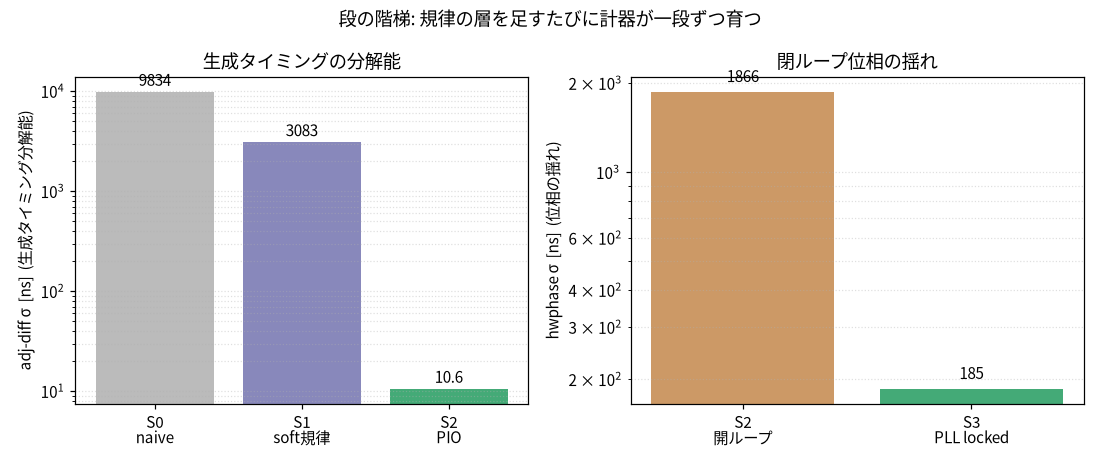
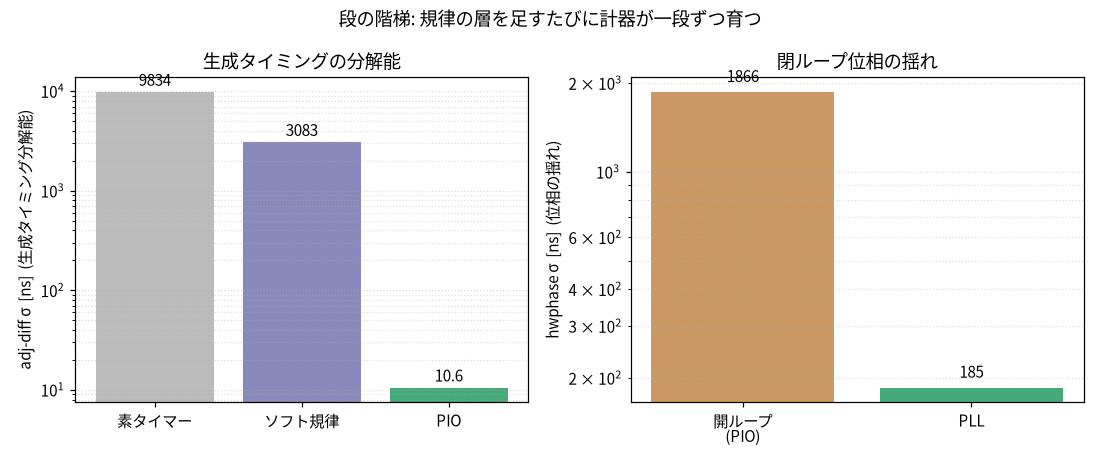
docs(precision): 段/S記号を全廃し各改良ステップを本文で展開
「段」「S0-S5」を本文・見出し・表・mermaid から一掃し、各構成を中身の言葉で呼ぶ
(素タイマー/ソフト規律/PIO/PLL/recal+補正/温度FF、PLL のみ、production、温度FF だけ切った構成)。
改良ステップの要約表をやめ、各ステップを本文の段落として書き下す (何を足し/どの誤差が消え/
数値がどう動いたか)。計測比較の表 (before/after・boot・on/off) は残す。fig1/fig2 のラベルも
素の言葉へ。執筆は smart-friend、別 agent の制約レビュー (段/S記号ゼロ・各ステップ本文化・
数値/図保全) で PASS。

Claude-Session: https://claude.ai/code/session_01QA3SZ4k1hmnnVeG51UZWBZ

diff --git a/docs/report/precision.md b/docs/report/precision.md
@@ -1,180 +1,173 @@
 # pico-gnss GPSDO 精度レポート
 
-RP2040 と民生 GNSS 受信機で GPSDO を作った。GPSDO は GPS disciplined oscillator の略で、GPS から来る正確な秒パルスに自分のクロック出力を合わせ続ける装置だ。ここで作ったものは、GNSS 受信機の 1PPS、つまり 1 秒に 1 回出る時刻基準のパルスを見ながら、RP2040 側の出力 1PPS をそこへ寄せていく。
+RP2040 と民生 GNSS 受信機で GPSDO を作った。GPSDO は GPS disciplined oscillator の略で、GPS の時刻に自分の出力を合わせ続けるクロック装置のこと。ここで作ったものは、GNSS 受信機が 1 秒に 1 回出す 1PPS を基準にして、RP2040 側から出す 1PPS をそこへ寄せていく。
 
-使っている部品は安い。RP2040 の内蔵タイマーと PIO、普通の水晶、民生 GNSS 受信機。最初から高級な基準発振器が載っているわけではない。だから最初の関心は単純で、この構成で作った 1PPS は GPS の秒境界にどこまで合うのか、どこから先が測り方の限界で、どこから先が制御の限界なのか、だった。
+使っているのは安い部品だ。RP2040、普通の水晶、民生 GNSS 受信機。高級な OCXO やルビジウム発振器を積んだ話ではない。だから見たいのは、この安い構成で GPS の秒境界にどこまで近づけるのか、どこまでが作り込みで改善できる誤差で、どこからが測定や制御の限界なのか、というところだった。
 
-外部の独立した 1PPS 基準、たとえば TIC、Rb、2 台目の受信機は使っていない。なので真の UTC に対する絶対精度は測れていない。ここで言えるのは、受信機 1PPS に対して出力がどれだけ揃ったか、firmware の内部観測とオシロの実測がどこまで一致したか、そして外乱を与えたときにどの誤差がどの機構から出たか、という範囲になる。
+ただし、この測定には外部の独立した 1PPS 基準がない。TIC も、Rb も、2 台目の受信機も使っていない。なので真の UTC に対する絶対精度を測った話ではない。ここで言えるのは、同じ GNSS 受信機の 1PPS に対して出力がどれだけ揃ったか、firmware 内部の観測とオシロの実測がどこまで合ったか、そして温度などの外乱で何が起きたか、という範囲になる。
 
-規律の信号は次のように流れる。GPS 受信機の 1PPS を PIO で捕まえ、その時刻から水晶の周波数を推定し、位相制御ループで出力周期を少しずつ操舵する。出力 1PPS は loopback で戻して内部でも位相を見ている。この内部観測を hwphase と呼ぶ。
+全体の信号の流れはこうなっている。GPS 受信機の 1PPS を PIO で捕まえ、その timestamp から水晶の周波数を推定する。位相制御ループはその推定を使って出力 1PPS の周期を少しずつ操舵する。出力は loopback でもう一度内部に戻して見ていて、この内部位相観測をここでは hwphase と呼ぶ。
 
 ```mermaid
 flowchart LR
   GPS["GPS受信機 1PPS"] -->|"PIO 16ns 捕捉"| CAP["エッジ timestamp"]
-  CAP --> DC["DisciplinedClock<br/>水晶ppb推定 + holdover"]
-  CAP --> PT["PpsTracker<br/>エッジ分類"]
-  DC --> PLL["PhaseLockLoop<br/>PID + Smith予測子"]
+  CAP --> DC["水晶周波数の推定<br/>holdover"]
+  CAP --> PT["エッジ分類"]
+  DC --> PLL["位相制御ループ<br/>PID + Smith予測"]
   PT --> PLL
   PLL -->|"周期を操舵"| OUT["出力 1PPS"]
-  OUT -.->|"loopback (hwphase)"| CAP
-  RECAL["recal + ABS_OFFSET"] -->|"絶対オフセット補正"| PLL
+  OUT -.->|"loopback: hwphase"| CAP
+  RECAL["recal + 絶対オフセット補正"] -->|"固定ずれを補正"| PLL
 ```
 
-## 段を足していく
-
-精度は一気に出たわけではなく、規律の層を 1 つずつ足して測った。firmware では `PRECISION_STAGE` という 0 から 5 の段で切り替えられる。最初は素のタイマーで PPS を作るだけ。そこへソフト周波数規律、PIO によるハード捕捉と生成、PLL、オシロ照合にもとづく補正、温度フィードフォワードを順に足した。
+精度は一発で出たわけではない。素のタイマーで出力を作るところから始めて、ソフトで周波数を規律し、PIO でエッジ捕捉と生成をハード化し、PLL で位相を閉じ、recal とオフセット補正でピン上の固定ずれを詰め、最後に温度フィードフォワードを足した。firmware には `PRECISION_STAGE` という切替ノブがあるが、ここでは番号ではなく中身で追っていく。
 
 ```mermaid
 flowchart LR
-  S0["S0 naive<br/>素タイマー"] --> S1["S1 soft規律<br/>+ dither"]
-  S1 --> S2["S2 PIO<br/>開ループFF"] --> S3["S3 PLL<br/>閉ループ"]
-  S3 --> S4["S4 recal<br/>+ ABS_OFFSET<br/>オシロ照合"] --> S5["S5 temp-FF<br/>production"]
+  A["素タイマー"] --> B["ソフト規律"]
+  B --> C["PIO"]
+  C --> D["PLL"]
+  D --> E["recal + 補正"]
+  E --> F["温度FF"]
 ```
 
-S0 から S3 までは、出力を作る足場を固める段階だ。ここでは主に firmware ログを見る。adj-diff は隣り合う位相差の変化量、interval は出力 1PPS の周期を表す。S2 と S3 は引き込み中を混ぜたくないので、warmup を切った定常側で見ている。
+![生成タイミングと閉ループ位相のばらつきが、改良ごとに縮んでいく](precision-figs/fig1-ladder.png)
 
-| 段 | 足した層 | 潰した誤差 | 代表指標 | 受信 |
-|---|---|---|---|---|
-| **S0** naive | 素のタイマーで PPS 生成 | 基準点 | adj-diff σ 9834 ns、hwphase slope −3223 ns/s | sats 16.2、HDOP 0.67 |
-| **S1** soft 規律 + dither | ソフト周波数規律と一次 sigma-delta dither | 周波数ドリフト | 定常、窓>120s で slope +17 ns/s、瞬時 adj-diff σ 3083 ns | sats 15.6、HDOP 0.69 |
-| **S2** PIO 開ループ FF | PIO で 1PPS をハード捕捉と生成、周波数 FF | ソフトタイミングの µs ジッタ | interval σ 7.3 ns、adj-diff σ 10.6 ns、span 32 ns | sats 15.1、HDOP 0.71 |
-| **S3** PLL 閉ループ | type-II 位相 servo、PID と Smith | 開ループの位相ドリフト | 獲得率 84.3%、locked で hwphase σ 185 ns、30s 窓 62 ns | sats 16.0、HDOP 0.69 |
+最初の素タイマーだけの状態では、RP2040 のタイマーで 1PPS を作るだけだった。GPS に合わせ込む仕組みはないので、水晶の素の周波数ずれがそのまま位相の流れとして出る。hwphase は −3223 ns/s で流れ、隣り合う位相差の 77% が負方向だった。adj-diff、つまり隣接する位相差の変化量の σ は 9834 ns。boot ごとにも 4〜10 µs くらい振れていた。これは GPSDO というより、まず比較対象になる「何もしていないクロック」の姿だ。
 
-![段の階梯: 生成タイミングと閉ループ位相の σ が段ごとに縮む](precision-figs/fig1-ladder.png)
+次に、ソフトで周波数を規律した。GPS 1PPS を見ながら平均周波数を寄せ、さらに一次 sigma-delta dither で整数 tick の制約をならす。これで定常状態、120 秒を超える窓では slope が +17 ns/s まで落ちた。素の状態では数千 ns/s で流れていたので、平均周波数のずれは大きく減っている。ただし瞬時の adj-diff σ は 3083 ns あり、まだ µs オーダのジッタが残った。平均周波数は寄せられても、ソフトウェアで PPS を出す瞬間の揺れは消えない。
 
-S0 は何も規律していない。hwphase は −3223 ns/s で流れ、隣接ステップの 77% が負になる。水晶の素の周波数オフセットが、そのまま位相ドリフトとして見えている。adj-diff σ は µs オーダで、boot ごとにも 4〜10 µs ほど振れる。
+dither はログ上でも直接見える。`dith_ticks` は 999997 から 1000004 tick に散っていて、平均は 1000001.75 tick になっていた。整数周期しか出せないハードでも、長い目で見ると非整数の平均周期を作れている。
 
-S1 ではソフトで周波数を寄せる。定常、窓>120s の slope は +17 ns/s まで落ちる。ただし瞬時の adj-diff σ は 3083 ns のままだ。平均周波数は寄せられても、ソフトで PPS を出す瞬間のジッタは消えない。
+![dither の直接証跡: 整数 tick の列が非整数の平均周期を作っている](precision-figs/fig4-dither.png)
 
-dither の効き方は `dith_ticks` に出ている。整数 tick は 999997 から 1000004 まで散り、平均は 1000001.75 tick になる。整数周期しか出せなくても、一次 sigma-delta で非整数の平均周期を作れている。
+そこで PIO を使い、1PPS の捕捉と生成をハード側に移した。ここでソフトタイミング由来の µs ジッタが外れる。出力周期の interval σ は 7.3 ns、adj-diff σ は 10.6 ns、span は 32 ns まで縮んだ。素タイマーだけの adj-diff σ 9834 ns と比べると、およそ 3 桁の改善になる。この時点ではまだ開ループなので、hwphase の wander は σ 約 1866 ns 残っていた。ただし、ここではまだオシロと照合していないので、絶対的なピン上の値としては扱わない。
 
-![dither の直接証跡: 整数 tick の値が非整数の平均を作る](precision-figs/fig4-dither.png)
+次に PLL で位相を閉じた。PLL は phase-locked loop のことで、ここでは GPS 1PPS と出力 1PPS の位相差を見ながら、出力周期を少しずつ変えて位相を戻す制御ループのことだ。type-II の位相 servo、PID、Smith 予測を使っている。ロック獲得率は 84.3%、locked 区間では hwphase σ が 185 ns、30 秒窓では 62 ns まで縮んだ。PIO の開ループで見えていた hwphase σ 約 1866 ns から見ると、約 10 倍の改善になる。各構成の受信状態は sats 15〜16、HDOP 0.67〜0.71 と近く、この差を単なる受信条件の違いで説明するのは難しい。
 
-S2 では PIO で捕捉と生成をハード化する。ここでソフト由来の µs ジッタが外れ、interval σ は 7.3 ns、adj-diff σ は 10.6 ns、span は 32 ns まで縮む。S0 の adj-diff σ 9834 ns から見ると、約 3 桁の改善になる。S2 の開ループ hwphase wander は σ 約 1866 ns だったが、この時点ではオシロと照合していないので、絶対値の扱いは保留する。
+PLL で閉じても、内部観測だけを信じると危ない。ピン上に固定スキューが残るからだ。そこで recal と絶対オフセット補正を入れた。recal は実際のタイミングを取り直して内部の基準を合わせる処理で、絶対オフセット補正はオシロ照合で見えた固定ずれを出力側に反映する補正だ。これで、内部の hwphase がよく見えているだけでなく、ピン上の出力も GPS 1PPS に近づく。
 
-S3 では PLL を閉じる。ロック獲得率は 84.3%、lk=1 が 280 行中 236 行。locked 区間では hwphase σ 185 ns、30s 窓で 62 ns まで縮む。開ループ hwphase σ 約 1866 ns から約 10 倍の改善だ。受信条件は各段で sats 15〜16、HDOP 0.67〜0.71 と近く、この差だけで改善を説明するのは難しい。
+最後に温度フィードフォワードを足した。水晶は温度で周波数が動くので、温度変化を見て先回りで周波数補正を入れる仕組みだ。通常運用ではこれを含めた production 構成を使う。ただし後で出てくるように、速い温度変化ではこの feedforward が過反応する不具合も見つかった。きれいに効いて終わり、ではなかった。
 
 ## 水晶と holdover
 
-GPSDO は GPS を見ながら動くが、GPS の PPS が途切れた瞬間に何もできなくなるわけではない。PPS が来ている間に水晶の周波数オフセットを推定しておき、途切れたときにはその推定値で秒を外挿する。この動きが holdover だ。
+GPSDO は GPS を見ながら動くが、GPS の PPS が一瞬でも途切れたら何もできない、というわけではない。PPS が来ている間に水晶の周波数オフセットを学習しておき、PPS がない間はその推定値で時刻を外挿する。この動きが holdover だ。
 
-この個体の水晶は +3.19 ppm @18℃ 相当のオフセットを持っていた。S0 の 2 boot では +3188 ns/s と +3182 ns/s で、符号も大きさも安定している。これは S0 の hwphase slope −3223 ns/s と整合する。`DisciplinedClock` はこの ppb 単位のオフセットを学習し、PPS がない間もそこから時刻を進める。
+この個体の水晶は +3.19 ppm @18℃ 相当のオフセットを持っていた。素タイマーだけで見た 2 回の boot では +3188 ns/s と +3182 ns/s で、符号も大きさも安定している。これは素の状態で hwphase が −3223 ns/s で流れていたこととも整合する。`DisciplinedClock` はこの ppb 単位のオフセットを学習し、PPS が途切れてもその値から時刻を進める。
 
-水晶は温度で周波数が動く。だから holdover の精度も温度の影響を受ける。ここでは 1PPS の規律精度を中心に見るので、holdover の長さと到達誤差、温度連動の細部は `wander.md` 側の話に分ける。
+もちろん水晶は温度で動く。だから holdover の精度も温度に影響される。この記事では 1PPS を GPS に合わせ続ける精度を中心に見るので、holdover の長さや温度連動の細かい評価は別扱いにしている。
 
-## オシロで見る
+## オシロで照合する
 
-S4 では、内部観測だけでなくピン上の出力をオシロで見る。ここで初めて、何をどの順で信じるかが効いてくる。順序は GPS-R PPS > オシロ > hwphase だ。GPS 受信機の 1PPS を基準にし、オシロは出力ピン上の位相を測る独立計器として扱う。hwphase は loopback で見た firmware 内部の相対量なので、単独では一番弱い。
+recal とオフセット補正を入れるところで、内部観測だけでなくピン上の信号をオシロで見た。ここで初めて、何をどの順に信じるかが問題になる。順序は GPS-R PPS > オシロ > hwphase だ。GPS 受信機の 1PPS を基準にし、オシロは出力ピン上の位相を測る独立した計器として扱う。hwphase は loopback で見た firmware 内部の相対量なので、単独では一番弱い。
 
-scope mean はオシロで測った GPS 1PPS と出力 1PPS のエッジ時間差の平均、scope std はその標準偏差だ。mean には固定スキューも含まれる。旧 `REPORT.md` にあった 793 ns の隠れスキューは、内部測定だけを信じてピン上のずれを見落とした失敗の典型だ。
-
-測定には Rigol DHO804 を使った。出力 1PPS は ch2、×10 プローブ。GPS 受信機 1PPS は ch1、×1 プローブ。同一受信、同一プローブ条件で、recal と ABS_OFFSET の before/after を比べる。recal なしの S3 と、recal、ABS_OFFSET、temp-FF を入れた production、つまり S5 の比較になる。
+測定には Rigol DHO804 を使った。GPS 受信機の 1PPS は ch1、×1 プローブ。出力 1PPS は ch2、×10 プローブ。同じ受信条件、同じプローブ条件で、recal と絶対オフセット補正を入れる前後を比べた。
 
 | 構成 | scope mean | scope std | ≤100ns 率 | 同時刻 hwphase |
-|---|---|---|---|---|
-| S3、PLL のみ、recal/ABS_OFFSET なし | +131.5 ns | 85.5 ns | 35% | 約 −64 ns |
-| production、S5、整定後 | +15.3/+40.5/−29.0 ns | 26〜54 ns | 83〜100% | −31〜+50 ns |
+|---|---:|---:|---:|---:|
+| PLL のみ、recal/オフセット補正なし | +131.5 ns | 85.5 ns | 35% | 約 −64 ns |
+| production、整定後 | +15.3 / +40.5 / −29.0 ns | 26〜54 ns | 83〜100% | −31〜+50 ns |
 
-![S4 の before/after: recal/ABS_OFFSET が出力と GPS のオフセットを ≤100ns 帯へ寄せる](precision-figs/fig2-s4-beforeafter.png)
+![recal/オフセット補正の before/after: 出力と GPS のオフセットが ≤100ns 帯へ寄る](precision-figs/fig2-s4-beforeafter.png)
 
-recal と ABS_OFFSET を入れると、オシロで見た出力と GPS のオフセットが 0 付近へ寄る。recal なしの S3 は +131.5 ns に張り付き、≤100ns に入る shot は 35% だけだった。production では 3 窓の mean が +15.3 ns、+40.5 ns、−29.0 ns になり、shot 単位の ≤100ns 率も 83〜100% へ上がる。scope std も 85.5 ns から 26〜54 ns へ縮む。
+recal とオフセット補正なしでは、オシロで見た出力は GPS 1PPS に対して +131.5 ns に張り付き、≤100ns に入る shot は 35% だけだった。production では 3 つの測定窓の mean が +15.3 ns、+40.5 ns、−29.0 ns になり、shot 単位の ≤100ns 率は 83〜100% まで上がった。scope std も 85.5 ns から 26〜54 ns へ縮んだ。
 
-整定後なら hwphase も短窓の位相観測として使える。scope mean が −29.0〜+40.5 ns の範囲にいるとき、同時刻の hwphase は −31〜+50 ns にいて、約 35 ns 以内で一緒に動いている。旧 `REPORT.md` のように、hwphase は 0 付近なのにピン上が大きくずれる症状は出ていない。
+整定後であれば、hwphase も短い窓の位相観測としてかなり使える。scope mean が −29.0〜+40.5 ns の範囲にいるとき、同時刻の hwphase は −31〜+50 ns にいて、およそ 35 ns 以内で一緒に動いていた。以前のレポートで出ていた 793 ns の隠れスキュー、つまり内部では合っているように見えるのにピン上では大きくずれている症状は、この測定では出ていない。
 
-ただし整定前に測ると簡単に間違える。最初の測定では、hwphase が +272〜304 ns へ振れていた overshoot 中に取ってしまい、scope mean +216 ns、≤100ns 率 0% という値になった。時系列で約 +80 ns 近傍へ収束したことを確認してから測り直している。
+ただし整定前に測ると簡単に間違える。最初の測定では、hwphase が +272〜304 ns に振れている overshoot 中に取ってしまい、scope mean +216 ns、≤100ns 率 0% という値になった。時系列で約 +80 ns 近傍へ収束したのを確認してから測り直している。
 
-![production の引き込みと整定。overshoot 中に測ると誤る](precision-figs/fig3-convergence.png)
+![production の引き込みと整定。overshoot 中に測ると代表値を誤る](precision-figs/fig3-convergence.png)
 
-オシロの画面でも、出力 1PPS、ch2、青と、GPS 1PPS、ch1、黄の立ち上がりが秒境界で重なる。表示は 50 ns/div、single trigger。定量値は上の表の scope mean と scope std を使う。
+オシロの画面でも、出力 1PPS と GPS 1PPS の立ち上がりは秒境界で重なって見える。表示は 50 ns/div、single trigger。定量値としては、上の scope mean と scope std を使う。
 
-![出力 1PPS と GPS 1PPS のエッジが秒境界で重なる (50ns/div、single trigger)](precision-figs/scope-prod-s5.png)
+![出力 1PPS と GPS 1PPS のエッジが秒境界で重なる。50ns/div、single trigger](precision-figs/scope-prod-s5.png)
 
-この測定は短窓、約 30 shot、整定後、良受信、single boot の値だ。1 時間の連続オシロ実測ではない。さらに ch1 の ×1 と ch2 の ×10 にはプローブ伝搬遅延スキューが固定成分として乗る。before/after の差は有効だが、数 ns 級の絶対 mean を真値として読む測定ではない。
+このオシロ測定は、整定後の短窓、約 30 shot、良受信、single boot の値だ。1 時間連続でオシロ統計を取ったものではない。また ch1 の ×1 と ch2 の ×10 にはプローブ伝搬遅延の固定スキューが乗る。before/after の比較としては有効だが、数 ns 級の絶対 mean を真値として読む測定ではない。
 
-## 再起動で戻るか
+## 再起動しても戻るか
 
-1 回の boot で揃っても、再起動のたびに違う場所へ落ちるなら使いにくい。production を 3 回 cold-boot し、各 boot の整定直後、count≈162 で scope phase と hwphase を測った。
+1 回の boot だけで揃っても、再起動のたびに違う場所へ落ちるなら実用上は困る。そこで production 構成を 3 回 cold-boot し、各 boot の整定直後、count≈162 で scope phase と hwphase を測った。
 
 | boot | scope mean | scope std | ≤100ns 率 | hwphase mean |
-|---|---|---|---|---|
+|---:|---:|---:|---:|---:|
 | 1 | +84.2 ns | 16.3 ns | 84% | 66.1 ns |
 | 2 | +72.9 ns | 11.6 ns | 100% | 72.5 ns |
 | 3 | +83.3 ns | 19.5 ns | 84% | 80.0 ns |
 
 ![production の boot 間再現性: 3 boot とも ≤100ns 帯に集まる](precision-figs/fig5-bootrepro.png)
 
-3 boot とも ≤100ns 帯に戻った。scope mean の範囲は +72.9〜+84.2 ns で、boot 間のばらつきは約 11 ns。hwphase mean も 66〜80 ns で scope に追従している。旧 `REPORT.md` のように起動ごとに µs 単位でばらつく症状は再現していない。
+3 回とも ≤100ns 帯に戻った。scope mean は +72.9〜+84.2 ns で、boot 間のばらつきは約 11 ns。hwphase mean も 66〜80 ns で scope に追従している。起動ごとに µs 単位でばらつく症状は再現していない。
 
-ここで測っている count≈162 は整定直後の settling tail、約 +75 ns 付近だ。次に見る長時間 wander の中心、約 0 ns とは違う。同じ収束点を boot 間で比べるための測定になる。
+ただし、この測定点は整定直後の settling tail、約 +75 ns 付近だ。後で見る 1 時間ログの中心、約 0 ns とは違う。同じ収束途中の位置を boot 間で比べた測定、という読み方になる。
 
-## 1 時間の振る舞い
+## 1 時間の振る舞いと wander
 
-production を約 1 時間、3597 PPSGEN 行、整定後、lock 100% で動かした。能動的な外乱は与えず、室温の自然ドリフト、約 1.3℃ の下で見る。ここでの指標は firmware ログの hwphase で、オシロの 1 時間連続測定ではない。ただし整定状態の短窓では、前の節で hwphase とオシロがよく合うことを確認している。
+production 構成を約 1 時間動かした。PPSGEN は 3597 行、整定後は lock 100%。能動的な外乱は与えず、室温の自然ドリフト、約 1.3℃ の中で見ている。ここで使う指標は firmware ログの hwphase で、オシロの 1 時間連続測定ではない。ただし整定後の短窓では、前の節で hwphase とオシロがよく合うことを確認している。
 
-hwphase mean は +1.1 ns、σ は 61.5 ns。p05/p50/p95 は −96 / 0 / +96 ns だった。30s 窓 σ は平均 35.2 ns、最大 123.1 ns。120s 窓 σ は平均 57.1 ns。≤100ns に入ったのは 3303/3597、つまり 91.8% だった。
+1 時間全体では、hwphase mean は +1.1 ns、σ は 61.5 ns。p05/p50/p95 は −96 / 0 / +96 ns だった。30 秒窓の σ は平均 35.2 ns、最大 123.1 ns。120 秒窓の σ は平均 57.1 ns。≤100ns に入ったのは 3303/3597、つまり 91.8% だった。
 
-短い窓で見ると、旧 `REPORT.md` の「σ 35〜50 ns」という感触は 30s 窓 σ 35.2 ns として再現する。一方、1 時間を通して「常に ≤100ns」とは言えない。100 ns を超える約 8% は低周波 wander の山で出ている。
+短い窓で見れば、σ 35〜50 ns くらいという感触は 30 秒窓 σ 35.2 ns として再現する。一方で、1 時間を通して常に ≤100ns とは言えない。100 ns を超える約 8% は、低周波の wander の山で出ている。
 
-wander の出所を探るため、120s 窓ごとの hwphase σ を sats、HDOP、温度と比べた。相関が一番強かったのは温度で、corr +0.47。受信との相関は弱く、sats +0.20、HDOP −0.24 だった。σ が最大の窓、94〜106 ns ではむしろ sats 12〜13 と受信が良く、σ が最小の静かな窓で sats 9 と受信が悪いこともあった。
+wander の出所を見るため、120 秒窓ごとの hwphase σ を sats、HDOP、温度と比べた。一番相関が強かったのは温度で、corr +0.47。受信との相関は弱く、sats +0.20、HDOP −0.24 だった。σ が最大の窓、94〜106 ns ではむしろ sats 12〜13 と受信がよく、σ が最小の静かな窓で sats 9 と受信が悪いこともあった。
 
-この 1 時間では、wander は受信劣化より発振器側の温度に寄って見える。ただし温度ドリフトは単調なので、相関が見かけ上強まりうる。単一の 1 時間ログでもある。出所を完全に確定するには外部基準が要る。
+![wander の出所: hwphase σ は受信より温度に相関して見える](precision-figs/fig6-wander-source.png)
 
-![wander の出所: hwphase σ は受信より温度に相関する](precision-figs/fig6-wander-source.png)
+この 1 時間ログでは、wander は受信劣化より発振器側の温度に寄って見える。ただし温度ドリフトは単調なので、見かけの相関が強まりやすい。単一ログでもある。出所を完全に確定するには、外部基準を使った測定が必要になる。
 
-## 速い温度外乱
+## 速い温度外乱と feedforward の過反応
 
-自然な室温変化だけでは temp-FF の効き方が見えにくいので、基板を手で加熱した。数秒で 0.7〜1.4℃ 上がる速い熱外乱だ。ON は production、stage 5。OFF は stage 4 で、recal と ABS_OFFSET は両方 on、temp-FF だけ off。受信は sats 約 11 で安定していた。
+自然な室温変化だけでは温度フィードフォワードの効き方が見えにくいので、基板を手で加熱した。数秒で 0.7〜1.4℃ 上がる、かなり速い熱外乱だ。温度フィードフォワードありは production。なしは recal とオフセット補正を残し、温度フィードフォワードだけ切った構成。受信は sats 約 11 で安定していた。
 
-ON のまま速く加熱すると、hwphase は +5000/−6000 ns の双極性過渡を起こし、約 40s かけて ≤100ns 帯へ戻る。
+温度フィードフォワードありのまま速く加熱すると、hwphase は +5000/−6000 ns の双極性過渡を起こし、約 40 秒かけて ≤100ns 帯へ戻った。
 
-![temp-FF on の速い加熱応答。温度急変で hwphase が ±µs 飛ぶ](precision-figs/fig7-tempff-heat.png)
+![温度フィードフォワードありの速い加熱応答。温度急変で hwphase が µs 級に飛ぶ](precision-figs/fig7-tempff-heat.png)
 
-on/off を加熱イベントごとに比べた。整定後、mispair を除外し、ΔT で正規化している。
+加熱イベントごとに、温度フィードフォワードあり/なしを比べた。整定後、mispair を除外し、ΔT で正規化している。
 
-| 指標 | ON 中央値、n=3 | OFF 中央値、n=4 |
-|---|---|---|
+| 指標 | 温度FFあり 中央値、n=3 | 温度FFなし 中央値、n=4 |
+|---|---:|---:|
 | peak / ℃ | 2482 ns | 3743 ns |
 | ∫\|hwphase\| / ℃ | 32492 ns·s | 53873 ns·s |
 | 復帰時間 | 30 s | 31 s |
 
-![temp-FF on/off の加熱応答。点が各イベント、横線が中央値](precision-figs/fig8-tempff-ab.png)
+![温度フィードフォワード on/off の加熱応答。点が各イベント、横線が中央値](precision-figs/fig8-tempff-ab.png)
 
-ON のほうが peak/℃ と ∫|hwphase|/℃ の中央値は 30〜40% 小さい。過渡を緩和する傾向はある。ただし n は 3 対 4 と小さく、手加熱なので熱量とレートもばらつく。範囲は重なり、全ペア比較では ON が小さいのは半数強にとどまる。復帰時間は ON 30 s、OFF 31 s でほぼ同じだ。ここから「temp-FF が確実に 30〜40% 改善する」とは言えない。
+中央値だけ見ると、温度フィードフォワードありのほうが peak/℃ と ∫|hwphase|/℃ は 30〜40% 小さい。過渡を緩和する傾向はある。ただし n は 3 対 4 と小さく、手加熱なので熱量もレートもばらつく。範囲は重なり、全ペア比較では温度フィードフォワードありのほうが小さいのは半数強にとどまる。復帰時間も 30 秒と 31 秒でほぼ同じだった。ここから「温度フィードフォワードで確実に 30〜40% 改善する」とまでは言えない。
 
-機構を追うと、問題は温度センサが遅いことではなかった。むしろ feedforward が過反応していた。temp-FF 有効時、出力周期へ渡す予測周波数 `predicted_freq_mppb` は、matched-lead 温度予測 `temp_ff_mppb(tcrys_hat)` と、非熱残差 observer `r_resid` の和になる。速い加熱でダイ温度が跳ねると、この feedforward が −1300 ppb まで膨らんだ。ところが整定後に見える実際の水晶周波数変化は −0.773 ppb しかない。約 1700 倍の過反応だ。
+中身を追うと、問題は温度センサが遅いことではなかった。むしろ feedforward が過反応していた。温度フィードフォワード有効時、出力周期へ渡す予測周波数 `predicted_freq_mppb` は、matched-lead 温度予測 `temp_ff_mppb(tcrys_hat)` と、非熱残差 observer `r_resid` の和になる。速い加熱でダイ温度が跳ねると、この feedforward が −1300 ppb まで膨らんだ。ところが整定後に見える実際の水晶周波数変化は −0.773 ppb しかない。約 1700 倍の過反応だ。
 
 ![feedforward が実周波数変化の約 1700 倍に過反応する](precision-figs/fig9-overreact.png)
 
-host モデルで切り分けると、matched-lead FF は同等の温度ステップでも約 41 ppb で止まる。−1300 ppb には届かない。大半は matched-lead ではなく、die↔crystal のモデル不整合に対して `r_resid` observer が大きな innovation を出した分と見られる。
+host モデルで切り分けると、matched-lead feedforward は同じような温度ステップでも約 41 ppb で止まる。−1300 ppb までは行かない。大半は matched-lead ではなく、die と crystal のモデル不整合に対して `r_resid` observer が大きな innovation を出した分と見られる。
 
-temp-FF を切った OFF、stage 4 では、予測偏差は α-β の `slope_max·pred_lead` = 5 ppb 上限にとどまり、−1300 ppb には届かない。OFF の過渡は feedforward の過反応ではなく、水晶周波数が実際に動き、それをループが追う応答だ。ON と OFF が近い大きさに見えたのは、別の機構がたまたま似た大きさで出たためと考えられる。
+温度フィードフォワードだけ切った構成では、予測偏差は α-β の `slope_max·pred_lead` = 5 ppb 上限にとどまり、−1300 ppb には届かない。こちらの過渡は feedforward の過反応ではなく、水晶周波数が実際に動き、それをループが追う応答だ。on/off が近い大きさに見えたのは、別の機構がたまたま似た大きさで出ていたためと考えられる。
 
 これは hardware の限界ではなく、firmware で抑えられる不具合だった。出力操舵へ渡す feedforward 偏差を ±100 ppb に clamp する `steering_freq_mppb` を入れた。matched-lead と `r_resid` の和をまとめて bound する。ただし holdover の時刻外挿には raw の `freq_mppb` と `freq_slope_mppb` を使い続けるので、holdover には影響させない。host でも holdover 無回帰を確認している。
 
-clamp 版を焼き、加熱レートをそろえた約 1.1℃/10s の加熱を複数回かけた。診断ログ `steer_ff` が過渡中に ±100 ppb に張り付き、clamp が実際に発火していることも確認できた。hwphase の過渡ピークは、unclamped の中央値 3085 ns/℃、worst 5573 ns/℃ から、clamped の中央値 400 ns/℃ へ落ちた。clamped の個別値は 397 / 400 / 558 ns/℃ で、ばらつきも小さい。
+clamp 版を焼き、加熱レートをそろえた約 1.1℃/10s の加熱を複数回かけた。診断ログ `steer_ff` が過渡中に ±100 ppb に張り付き、clamp が実際に効いていることも確認できた。hwphase の過渡ピークは、unclamped の中央値 3085 ns/℃、worst 5573 ns/℃ から、clamped の中央値 400 ns/℃ へ落ちた。clamped の個別値は 397 / 400 / 558 ns/℃ で、ばらつきも小さい。
 
-![steering clamp の加熱 A/B。過渡 peak/℃ が中央値で ~8 倍縮む](precision-figs/fig10-clamp-ab.png)
+![steering clamp の加熱 A/B。過渡 peak/℃ が中央値で約 8 倍縮む](precision-figs/fig10-clamp-ab.png)
 
-過反応スパイクは絶対値で約 6 µs から、加熱を跨いで一貫した約 500 ns 級へ抑えられた。中央値で約 8 倍、worst-case で約 14 倍の改善になる。boot 収束でも同じ機構が効き、raw feedforward が −1621 ppb まで振れる局面で、overshoot は −2992 ns から −1264 ns へ約 2.4 倍縮んだ。
+過反応スパイクは、絶対値で約 6 µs から、加熱をまたいでも一貫した約 500 ns 級へ抑えられた。中央値で約 8 倍、worst-case で約 14 倍の改善になる。boot 収束でも同じ機構が効き、raw feedforward が −1621 ppb まで振れる局面で、overshoot は −2992 ns から −1264 ns へ約 2.4 倍縮んだ。
 
-ここまでの加熱 A/B は firmware の hwphase での比較だ。加熱過渡は約 40s と速く、オシロの位相統計に乗せにくい。整定状態で hwphase とオシロが合うことは S4 で確認しているが、加熱中の過渡そのものをオシロで直接 A/B したわけではない。
+ここまでの加熱 A/B は firmware の hwphase での比較だ。加熱過渡は約 40 秒と速く、オシロの位相統計に乗せにくい。整定状態で hwphase とオシロが合うことは確認しているが、加熱中の過渡そのものをオシロで直接 A/B したわけではない。
 
-clamp 後にも約 500 ns 級の過渡は残る。これは feedforward が実周波数変化の約 1700 倍に膨らむ不具合ではなく、有限帯域の制御ループが実際の水晶周波数ステップに整定するまでの応答だ。速い外乱への整定が遅れること自体は、制御として残る。帯域を広げれば速い外乱には追いやすくなるが、定常時の wander は悪化する。本機は狭帯域で通常運用の ≤100ns を取りに行く設計なので、速い熱外乱の整定過渡はその設計のコストになる。
+clamp 後にも約 500 ns 級の過渡は残る。これは feedforward が実周波数変化の約 1700 倍に膨らむ不具合ではなく、有限帯域の制御ループが実際の水晶周波数ステップに整定するまでの応答だ。速い外乱への整定が遅れること自体は、制御として残る。帯域を広げれば速い外乱には追いやすくなるが、定常時の wander は悪化する。本機は狭帯域で通常運用の ≤100ns を取りに行く設計なので、速い熱外乱で過渡が残るのはそのコストになる。
 
-## 残っている未確認
+## 未確認事項
 
 長時間 baseline の boot 再現性はまだ取れていない。3 boot の再現性は整定直後、count≈162 で見たが、長時間 wander の中心、約 0 ns に揃えた複数 boot の検証はしていない。各 boot の long-term σ がどこまで再現するかも未確認だ。
 
-temp-FF の効果量も確定していない。速い温度外乱への応答は測ったが、on/off の差は手加熱の熱量、レート、n の小ささに埋もれる。確定するには on/off 交互で各 10 回以上、固定ヒータと水晶近傍センサを使い、加熱レートをそろえて測る必要がある。
+温度フィードフォワードの効果量も確定していない。速い温度外乱への応答は測ったが、on/off の差は手加熱の熱量、レート、サンプル数の小ささに埋もれる。確定するには on/off 交互で各 10 回以上、固定ヒータと水晶近傍センサを使い、加熱レートをそろえて測る必要がある。
 
-S3 の旧 build R1、つまり旧 firmware build を焼いての再確認も未実施だ。
+旧 firmware build を焼いての再確認も未実施だ。
 
-絶対精度も未測定だ。真の UTC に対して出力がどれだけ近いかは、この構成だけでは原理的に測れない。外部の独立 1PPS 基準が必要になる。
+絶対精度も未測定だ。真の UTC に対して出力がどれだけ近いかは、この構成だけでは原理的に測れない。外部の独立した 1PPS 基準が必要になる。
 
 ## 測るときの注意
 
-段比較では、受信条件を一緒に見る。今回も sats と HDOP を併記し、段の改善が単なる受信差で説明できないかを確認した。
+構成を比べるときは、受信条件も一緒に見る。今回も sats と HDOP を併記し、改善が単なる受信差で説明できないかを確認した。
 
-単発の shot だけで判断しない。mean、σ、窓別統計を見る。引き込み中やアンロック中を代表値に混ぜない。S4 の overshoot 中測定のように、整定前の値を読むと簡単に誤る。
+単発の shot だけでは判断しない。mean、σ、窓別統計を見る。引き込み中やアンロック中を代表値に混ぜない。production の overshoot 中測定のように、整定前の値を読むと簡単に誤る。
 
-hwphase とオシロを混同しない。hwphase は便利な内部観測だが、外部実測ではない。ピン上のアライメントを言うときは、GPS-R PPS、オシロ、hwphase の順に戻って確認する。整定後は hwphase が scope とよく一致したので短窓の位相観測として使えるが、その前提を外した場所では別に照合が要る。
+hwphase とオシロも混同しない。hwphase は便利な内部観測だが、外部実測ではない。ピン上のアライメントを言うときは、GPS-R PPS、オシロ、hwphase の順に戻って確認する。整定後は hwphase が scope とよく一致したので短窓の位相観測として使えるが、その前提を外した場所では別に照合が要る。
